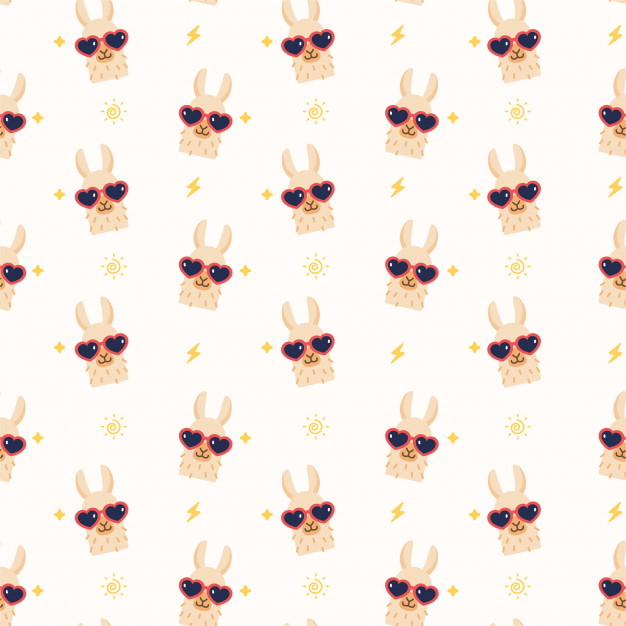
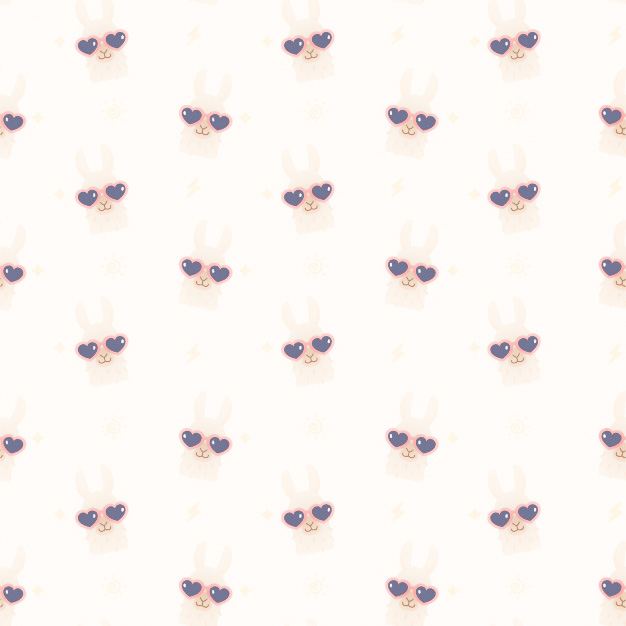
added llama background, changed background, sidebar, title colors

diff --git a/src/pages/home/contact/Contact.js b/src/pages/home/contact/Contact.js
@@ -6,6 +6,7 @@ import styles from './Contact.module.scss';
 import A from 'ui/components/A';
 import Button from 'ui/components/Button';
 import { Form, Field } from 'ui/components/formComponents';
+import llamaPhoto from 'assets/img/llama.jpg';
 
 const Contact = () => (
   <Section
@@ -13,6 +14,8 @@ const Contact = () => (
     className={styles.contact}
     title='Contact Me'
     subtitle='Interested in working together? Don’t hesitate to reach out to me filling out the contact form below, or just calling me.'
+    img={llamaPhoto}
+    backgroundContent={styles.backgroundContent}
   >
     <div className={styles.contactContent}>
       <div className={styles.info}>
@@ -43,7 +46,7 @@ const Contact = () => (
         <Form onSubmit={(v) => console.log(v)}>
           <Field
             name='name'
-            label='Your Name'
+            label='Your Name *Form is work in progress'
             placeholder="e.g. U. Name"
           />
           <Field

diff --git a/src/ui/layout/Sidebar/Sidebar.scss b/src/ui/layout/Sidebar/Sidebar.scss
@@ -20,7 +20,7 @@
   margin-left: calc(-1 * var(--nav-size));
   z-index: 10;
   transition: margin-left 0.5s ease;
-  background: $color-secondary;
+  background: $color-title-text;
 }
 .navigation.isOpen{
   margin-left: 0;
@@ -31,6 +31,10 @@
   width: $avatar-size;
   padding: $avatar-picture-padding 0;
   margin: auto;
+
+  .close-icon {
+    color: $color-button-text;
+  }  
 
   @include vertical-align;
 }
@@ -52,8 +56,8 @@
 }
 
 .link {
-  color: #000;
-  color: var(--main-color);
+  color: $color-button-text;
+  font-weight: 100;
   display: block;
   font-size: 1.5em;
   line-height: 40px;

diff --git a/src/ui/components/Section/Section.module.scss b/src/ui/components/Section/Section.module.scss
@@ -2,11 +2,12 @@
 
 .section {
   margin: auto;
+  background: $color-background-one;
 }
 
 .container {
   height: 100%;
-  padding: 50px 0;
+  padding: 100px 0;
 
   @include vertical-align;
 }
@@ -16,15 +17,19 @@
   width: 80%;
   max-width: 1500px;
 
-  @media (min-width: $breakpoint-desktop) {
-    width: 100%;
-}
-
-
+  // @media (min-width: $breakpoint-desktop) {
+  //   width: 100%;
+  // }
 }
 
 .title {
   font-size: 2.3em;
+  color: $color-title-text;
+  padding-bottom: 30px;
+
+  @media (min-width: $breakpoint-desktop) {
+    font-size: 3.5em;
+  }
 }
 
 .subtitle {

diff --git a/src/assets/styles/abstract/variables.scss b/src/assets/styles/abstract/variables.scss
@@ -14,12 +14,18 @@ $text-black: $black;
 $color-main: $yellow;
 $color-secondary: #fbf6f0;
 
-$color-main-text: #252525;
-$color-secondary-text: #69b9bd;
+$color-main-text: #31383f;
+$color-title-text: #d9415d;
+$color-secondary-text: #757575;
+$color-background-one: #fafafa;
+// $color-background-one: #f2cece;
+
+
 $color-main-dark: darken($color-main, 20%);
 $color-main-darker: darken($color-main, 40%);
 
-$color-button: #febeb0;
+// $color-button: #febeb0;
+$color-button: #3a3142;
 $color-button-text: #ffffff;
 $color-border: #f5f5f5;
 

diff --git a/src/pages/home/portfolio/Portfolio.js b/src/pages/home/portfolio/Portfolio.js
@@ -9,7 +9,6 @@ import birdsongsPhoto from 'assets/img/portfolio/Birdsongs_1.png';
 import stitchsPhoto from 'assets/img/portfolio/Stitchpirations_1.png';
 import catcusPhoto from 'assets/img/portfolio/Catcus_1.png';
 
-
 const Portfolio = () => {
   const [goTo] = useLink();
 
@@ -18,7 +17,6 @@ const Portfolio = () => {
       id={HOME_SECTIONS.PORTFOLIO}
       className={styles.portfolio}
       title='Portfolio'
-      subtitle='This is my portfolio'
     >
       <Card.Group>
         <Card

diff --git a/src/ui/components/Section/Section.js b/src/ui/components/Section/Section.js
@@ -9,6 +9,7 @@ const Section = ({
   children,
   className,
   img,
+  backgroundContent,
 }) => (
   <section
     id={id}
@@ -16,7 +17,7 @@ const Section = ({
     style={{ backgroundImage:`url(${img})` }}
   >
     <div className={styles.container}>
-      <div className={styles.innerContainer}>
+      <div className={classnames(styles.innerContainer, backgroundContent)}>
         <h1 className={styles.title}>
           {title}
         </h1>

diff --git a/src/pages/home/contact/Contact.module.scss b/src/pages/home/contact/Contact.module.scss
@@ -9,6 +9,11 @@
   }
 }
 
+.backgroundContent {
+  background: #ffffffd6
+}
+
+
 .info {
   margin: auto;
   padding: 30px 0;
@@ -35,7 +40,6 @@
 .form {
   width: 100%;
   margin: auto;
-  height: 200px;
   box-sizing: border-box;
 
   @media (min-width: $breakpoint-tablet) {
@@ -44,6 +48,6 @@
 
   @media (min-width: $breakpoint-desktop) {
     width: 50%;
-    padding: 0 100px;
+    padding: 30px 100px;
   }
 }

diff --git a/src/ui/components/Landpage/Landpage.module.scss b/src/ui/components/Landpage/Landpage.module.scss
@@ -12,6 +12,7 @@
 .txtContainer {
   width: 100%;
   min-height: 50vh;
+  background: $color-background-one;
 
   @include vertical-align;
 
@@ -47,6 +48,7 @@
 .title {
   font-size: 2.2em;
   line-height: 1.1;
+  color: $color-title-text;
 
 
   @media (min-width: $breakpoint-tablet) {

diff --git a/src/ui/components/Card/Card.module.scss b/src/ui/components/Card/Card.module.scss
@@ -2,10 +2,9 @@
 
 .card {
   border-radius: $border-radius;
-  // border: solid $color-border 2px;
+  background: $color-button-text;
   
   border: 1px solid $color-border;
-  // padding: 10px;
   box-shadow: 2px 3px $color-border;
 
   width: 100%;

diff --git a/src/pages/home/about/About.js b/src/pages/home/about/About.js
@@ -11,7 +11,6 @@ const About = () => (
     id={HOME_SECTIONS.ABOUT}
     className={styles.about}
     title='About Me'
-    subtitle="I'm Elisa"
   >
     <div className={styles.aboutContent}>
       <div className={styles.img}>

diff --git a/src/pages/home/portfolio/Portfolio.module.scss b/src/pages/home/portfolio/Portfolio.module.scss
@@ -1,1 +1,5 @@
 @import "assets/styles/abstract/index.scss";
+
+.portfolio {
+  background: #fff0f0;
+}
